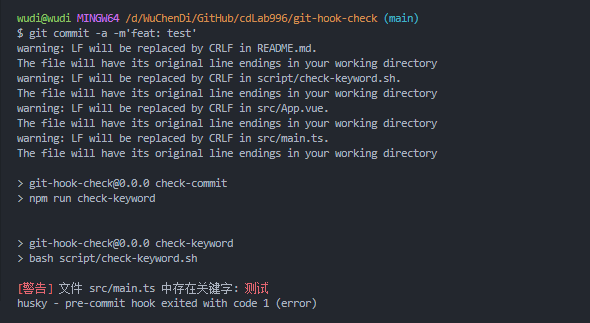
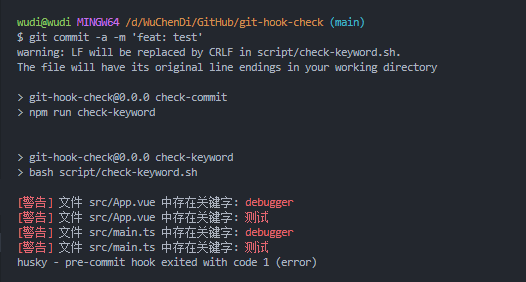
feat: test

Changed region(s): [[0.0304, 0.0284, 0.8517, 0.5106], [0.0304, 0.6809, 0.6084, 0.9645], [0.0304, 0.539, 0.4563, 0.6525]]

diff --git a/src/main.ts b/src/main.ts
@@ -3,6 +3,6 @@ import './style.css'
 import App from './App.vue'
 
 // TODO test
-// debugger 1
-// console.log('测试 1')
+// debugge1r
+// console.log('测1试')
 createApp(App).mount('#app')
